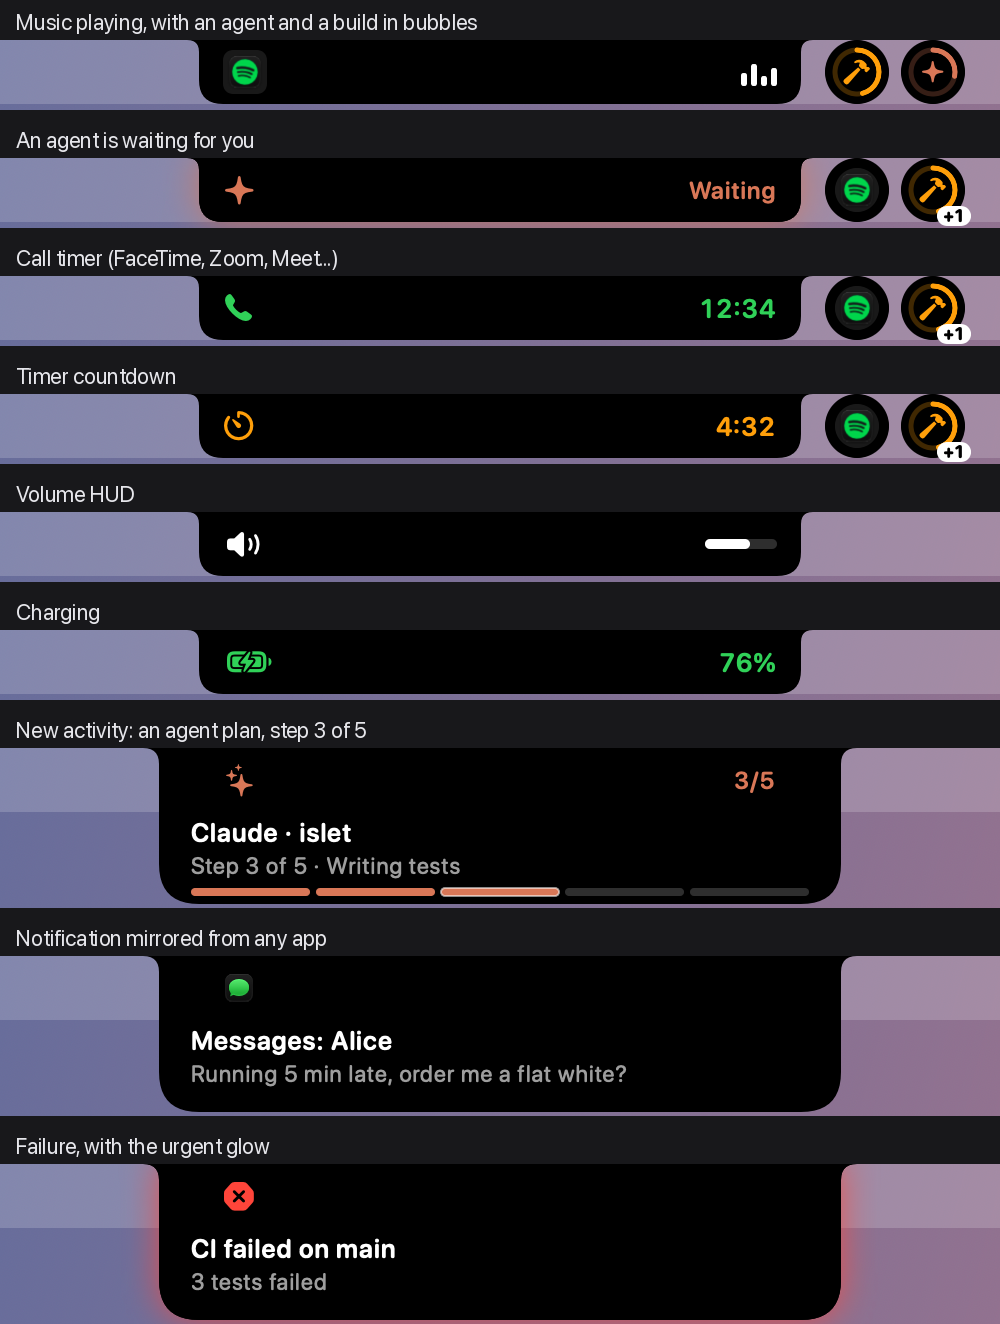
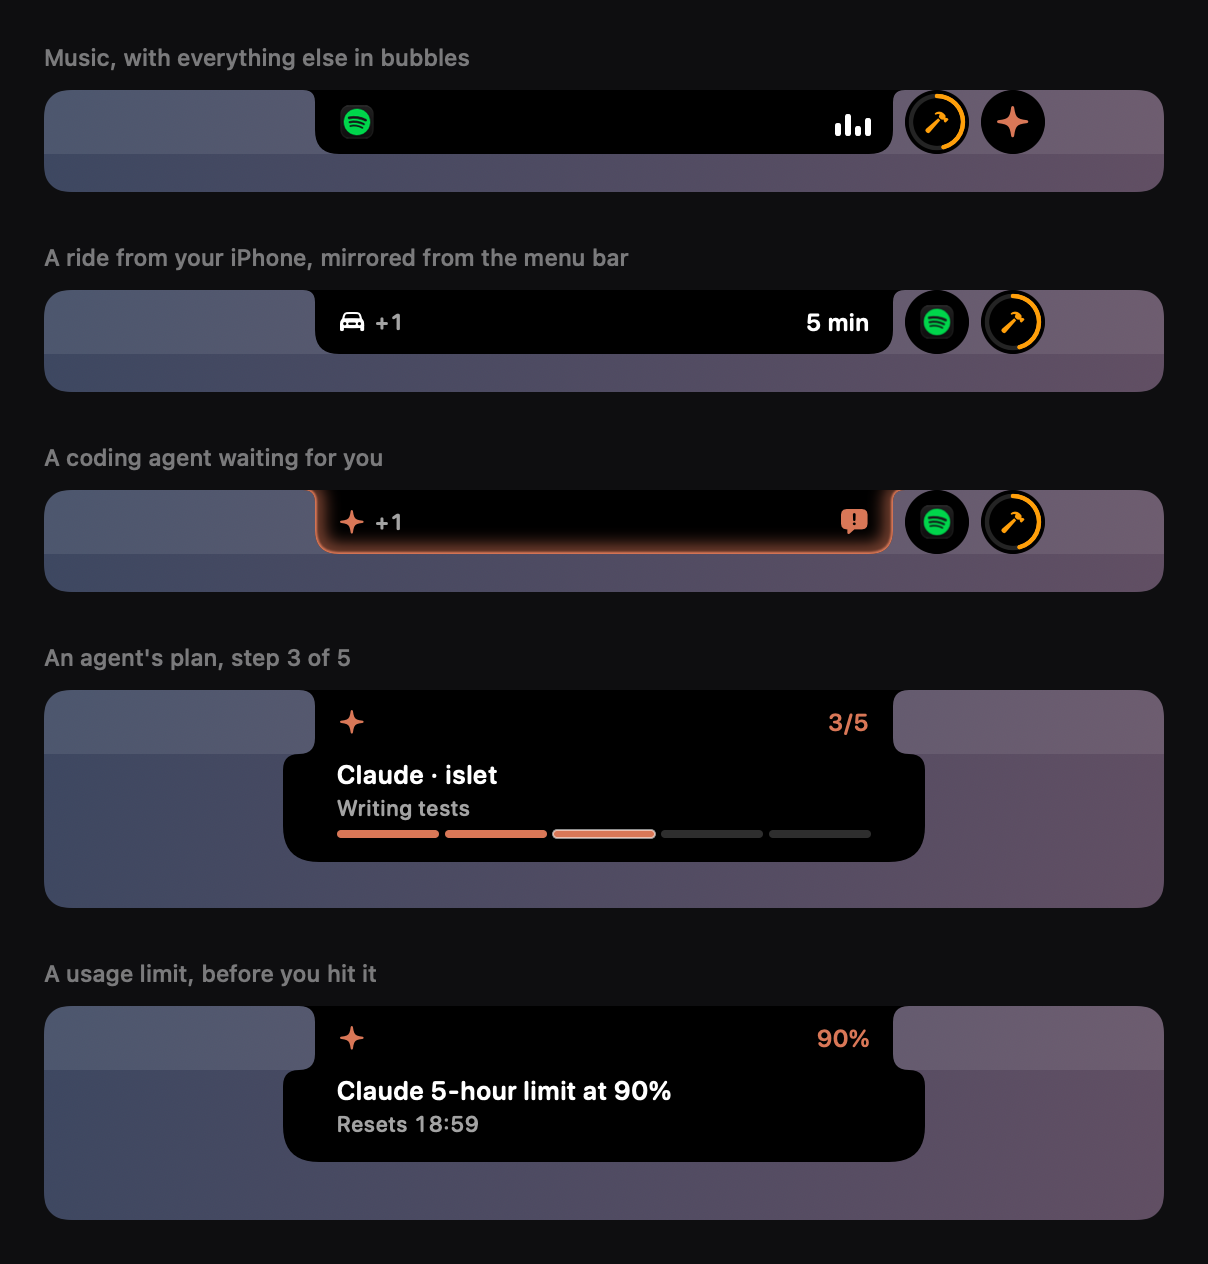
docs(readme): give the pictures room to breathe
They were a contact sheet: nine states stacked behind grey caption bars,
on a bright wallpaper chopped into slivers, cropped at the edges. Now the
open island leads, five states follow as cards of one width on a quiet
backdrop, and the captions are small and out of the way. Four pictures
nothing linked to are gone, and the rest are rendered without an alpha
channel they never used.

diff --git a/Sources/Islet/Snapshots+Readme.swift b/Sources/Islet/Snapshots+Readme.swift
@@ -43,38 +43,44 @@ extension Snapshots {
                                                                       resetsAt: now.addingTimeInterval(72 * 60)), threshold: 90)
         let usage = activity(alert.activity(now: now))
 
+        // Five states, not every state: beside a notch the compact island has room for an icon and
+        // a value, so a ride, a score and a timer all look alike there. One of each kind says more
+        // than all of them, and the sneak peeks below carry the detail.
+        _ = (score, timer)
         let rows: [(String, IslandPresentation, CGFloat)] = [
-            ("Music playing, with other activities in bubbles", .compact(.nowPlaying(model.nowPlaying!)), 42),
+            ("Music, with everything else in bubbles", .compact(.nowPlaying(model.nowPlaying!)), 42),
             ("A ride from your iPhone, mirrored from the menu bar", .compact(.activity(ride, others: 0)), 42),
-            ("A live score", .compact(.activity(score, others: 0)), 42),
             ("A coding agent waiting for you", .compact(.activity(waiting, others: 0)), 42),
-            ("A timer", .compact(.activity(timer, others: 0)), 42),
             ("An agent's plan, step 3 of 5", .sneak(plan), 100),
-            ("A usage limit alert", .sneak(usage), 98),
+            ("A usage limit, before you hit it", .sneak(usage), 98),
         ]
         model.closedPlacements[1] = ClosedPlacement(wing: metrics.wingWidth, slack: .infinity)
         var images: [(String, NSImage)] = []
         for (caption, presentation, height) in rows {
             model.forcedPresentation = presentation
+            // Room below the island so it sits in the strip rather than being cut off by it.
             let view = IslandView(model: model, display: 1, metrics: metrics)
-                .frame(width: 500, height: height, alignment: .top)
-                .background(backdrop(metrics: metrics))
+                .frame(width: Readme.strip, height: height + Readme.room, alignment: .top)
+                .background(readmeBackdrop(metrics: metrics))
                 .clipped()
             if let image = image(view) { images.append((caption, image)) }
         }
+        // One state to a card, each the same width, with the caption quiet above it. The space
+        // between them is what makes a list of seven things read calmly.
         let sheet = VStack(alignment: .leading, spacing: 0) {
-            ForEach(Array(images.enumerated()), id: \.offset) { _, row in
+            ForEach(Array(images.enumerated()), id: \.offset) { index, row in
                 Text(row.0)
-                    .font(.system(size: 11, weight: .medium))
-                    .foregroundStyle(Color.white.opacity(0.85))
-                    .padding(.horizontal, 8)
-                    .frame(maxWidth: .infinity, minHeight: 22, alignment: .leading)
-                    .background(Color(white: 0.12))
-                Image(nsImage: row.1)
+                    .font(.system(size: 11.5, weight: .medium))
+                    .foregroundStyle(Color.white.opacity(0.45))
+                    .padding(.top, index == 0 ? 0 : 26)
+                    .padding(.bottom, 9)
+                Image(nsImage: row.1).clipShape(RoundedRectangle(cornerRadius: Readme.corner, style: .continuous))
             }
         }
-        .frame(width: 500)
-        write(sheet, to: out.appendingPathComponent("closed-states.png"))
+        .padding(Readme.margin)
+        .frame(width: Readme.strip + Readme.margin * 2, alignment: .leading)
+        .background(Readme.page)
+        writeOpaque(sheet, to: out.appendingPathComponent("closed-states.png"))
 
         // The expanded island at each size, on Home.
         model.closedPlacements[1] = nil
@@ -84,17 +90,61 @@ extension Snapshots {
             model.settings.sizePreset = preset
             let m = NotchGeometry.metrics(for: screen, expandedSize: CGSize(width: model.settings.expandedSize.width, height: model.settings.expandedSize.height),
                                           wingWidth: model.settings.effectiveWingWidth)
+            // Wider than the island and taller than it needs, so it has somewhere to sit.
             let view = IslandView(model: model, display: 1, metrics: m)
-                .frame(width: 760, height: m.expanded.height + 30 + PageSwitcher.band)
-                .background(backdrop(metrics: m))
-            write(view, to: out.appendingPathComponent("\(name).png"))
+                .frame(width: m.expanded.width + 240, height: m.expanded.height + 38 + PageSwitcher.band, alignment: .top)
+                .background(readmeBackdrop(metrics: m))
+                .clipShape(RoundedRectangle(cornerRadius: Readme.corner, style: .continuous))
+                .padding(Readme.margin)
+                .background(Readme.page)
+            writeOpaque(view, to: out.appendingPathComponent("\(name).png"))
         }
+    }
+
+    /// The README's images are drawn on an opaque page, so they are rendered without an alpha
+    /// channel: a third off the file a stranger downloads before reading a word.
+    static func writeOpaque<V: View>(_ view: V, to url: URL) {
+        let renderer = ImageRenderer(content: view.environment(\.colorScheme, .dark).environment(\.snapshotMode, true))
+        renderer.scale = 2
+        renderer.isOpaque = true
+        guard let image = renderer.nsImage, let tiff = image.tiffRepresentation, let rep = NSBitmapImageRep(data: tiff),
+              let png = rep.representation(using: .png, properties: [:]) else { return write(view, to: url) }
+        try? png.write(to: url)
     }
 
     private static func image<V: View>(_ view: V) -> NSImage? {
         let renderer = ImageRenderer(content: view.environment(\.colorScheme, .dark).environment(\.snapshotMode, true))
         renderer.scale = 2
         return renderer.nsImage
+    }
+}
+
+/// The look of the README's pictures: one page colour, one card radius, one margin, and a
+/// backdrop quiet enough that the island is the thing you look at. Kept here rather than in the
+/// island's own styles because it describes the page the pictures sit on, not the app.
+enum Readme {
+    static let page = Color(red: 0.055, green: 0.055, blue: 0.063)
+    static let corner: CGFloat = 12
+    static let margin: CGFloat = 22
+    /// How wide one closed-island card is, and how much room the island is given below it.
+    static let strip: CGFloat = 560
+    static let room: CGFloat = 9
+}
+
+@MainActor
+extension Snapshots {
+    /// A desktop behind the island: a soft, desaturated gradient instead of a bright wallpaper,
+    /// so the island reads as the subject. The menu bar row and the notch are drawn as they are
+    /// on a real Mac, which is what makes the picture legible at a glance.
+    static func readmeBackdrop(metrics: IslandMetrics) -> some View {
+        ZStack(alignment: .top) {
+            LinearGradient(colors: [Color(red: 0.24, green: 0.28, blue: 0.38), Color(red: 0.38, green: 0.31, blue: 0.39)],
+                           startPoint: .topLeading, endPoint: .bottomTrailing)
+            Rectangle().fill(Color.white.opacity(0.08)).frame(height: metrics.notch.height)
+            UnevenRoundedRectangle(bottomLeadingRadius: 8, bottomTrailingRadius: 8)
+                .fill(Color.black)
+                .frame(width: metrics.notch.width, height: metrics.notch.height)
+        }
     }
 }
 

diff --git a/README.md b/README.md
@@ -2,9 +2,9 @@
 
 **A free, open-source Dynamic Island for the Mac notch.** Music, calls, timers, your iPhone's Live Activities, coding agents and anything a script can send show up around the notch, and stay out of the way when nothing's happening.
 
-<img src="docs/images/closed-states.png" width="500" alt="The closed island: music with other activities in bubbles, a ride mirrored from the iPhone, a live score, an agent waiting, a timer, an agent's plan and a usage alert">
+![The island open on Home: a song playing, with a meeting, a build and a coding agent beside it](docs/images/expanded-home.png)
 
-![The expanded island on Home](docs/images/expanded-home.png)
+<img src="docs/images/closed-states.png" width="560" alt="The closed island in five states: music with everything else in bubbles, a ride mirrored from the iPhone, a coding agent waiting, an agent's plan at step 3 of 5, and a usage limit alert">
 
 ## What it does
 
